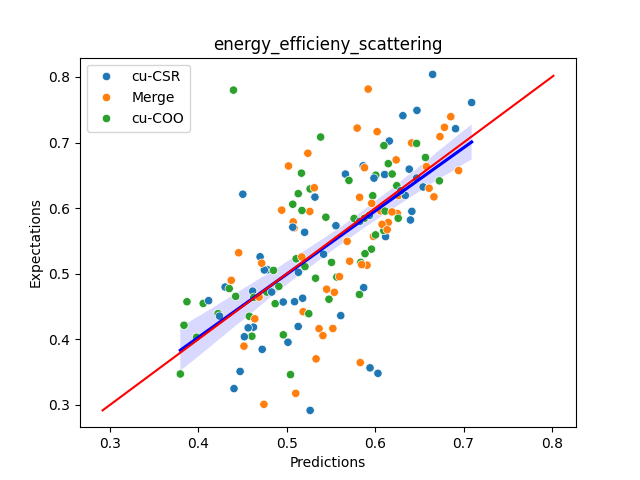
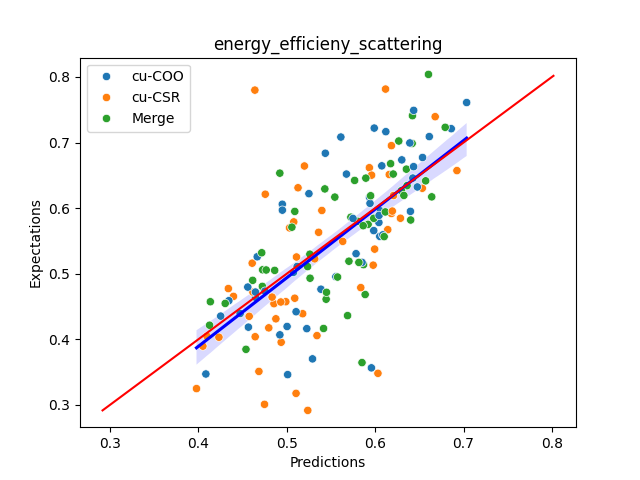
Fixed train/test/validation splits for mlp and re-ran the model for 100 epochs

diff --git a/Performance_predictors/model_runners.py b/Performance_predictors/model_runners.py
@@ -38,7 +38,7 @@ def run_mlp(activation_function,
     optimizer = torch.optim.SGD(mlp_model.parameters(), lr=MLP_globals.lr)
 
     test_split = 0.2
-    validation_split = 0.05
+    validation_split = 0.25 # 5% of the 20% remaining
     shuffle_dataset = True
     random_seed = 42
     n_iteration = MLP_globals.nb_epochs
